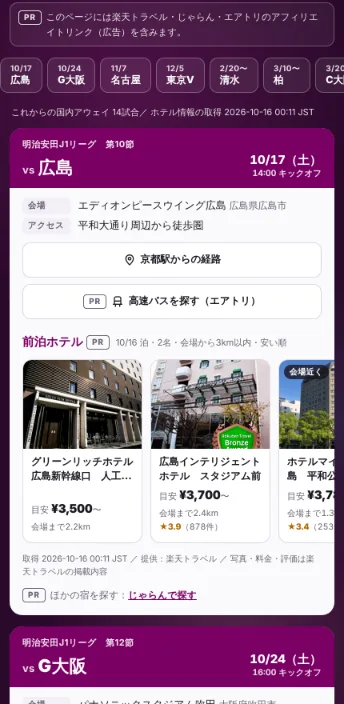
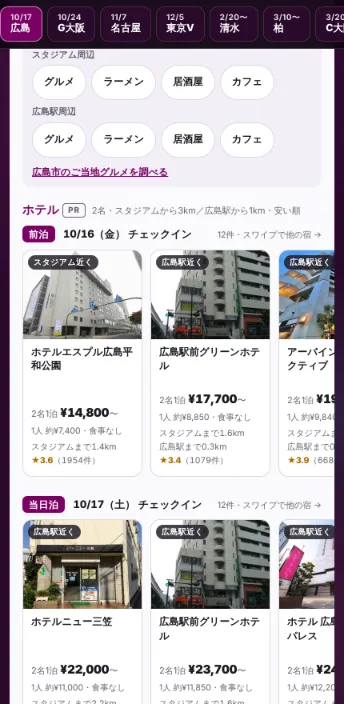
入口ページの遠征ガイドのサムネイルを撮り直す（開け閉め・貼り付く帯・ごはん検索・前泊と当日泊の2列）
撮影は docs/ui-prototype-workflow.md の条件（430×880、画素密度2倍、Asia/Tokyo、WebP 344×704 品質0.82）。

Claude-Session: https://claude.ai/code/session_01SCYGbRf7zK93PnRPiPxHy2

diff --git a/public/index.html b/public/index.html
@@ -132,7 +132,7 @@
       <span class="work-desc">チケットやグッズの交換募集を、Xに投稿しやすい形に整えます。</span>
     </a></li>
     <li class="work" style="--delay: 90ms"><a class="work-link" href="away.html">
-      <span class="work-thumb" style="--accent: #7b0064"><img src="assets/thumbs/away-guide.webp?v=13ece262" loading="lazy" decoding="async" width="344" height="704" alt=""></span>
+      <span class="work-thumb" style="--accent: #7b0064"><img src="assets/thumbs/away-guide.webp?v=eb1d45f9" loading="lazy" decoding="async" width="344" height="704" alt=""></span>
       <span class="work-name">アウェイ遠征ガイド</span>
       <span class="work-desc">アウェイ戦ごとのスタジアム・最寄り駅・前泊と当日泊のホテル候補をまとめます（PRを含みます）。</span>
     </a></li>
@@ -171,7 +171,7 @@
   <p>SANGA TOOLBOX — unofficial fan tools</p>
 </footer>
 
-<script src="assets/index-page.js?v=541dca3d"></script>
+<script src="assets/index-page.js?v=12132352"></script>
 <script type="module">
   // ネビュラは進行的強化として足す。失敗してもCSSの背景が残る
   import { startNebula } from "./assets/index-nebula.js?v=56428a80";

diff --git a/public/assets/index-page.js b/public/assets/index-page.js
@@ -11,8 +11,8 @@
 // 順で試す。squad-builder.js と同じ方式。
 // ?v= は tools/asset-versions.mjs が tools.json の内容ハッシュへ書き換える。
 const DATA_CANDIDATES = [
-  "/data/tools.json?v=37ad57d8",
-  "data/tools.json?v=37ad57d8",
+  "/data/tools.json?v=3ca00575",
+  "data/tools.json?v=3ca00575",
 ];
 
 async function loadTools() {
